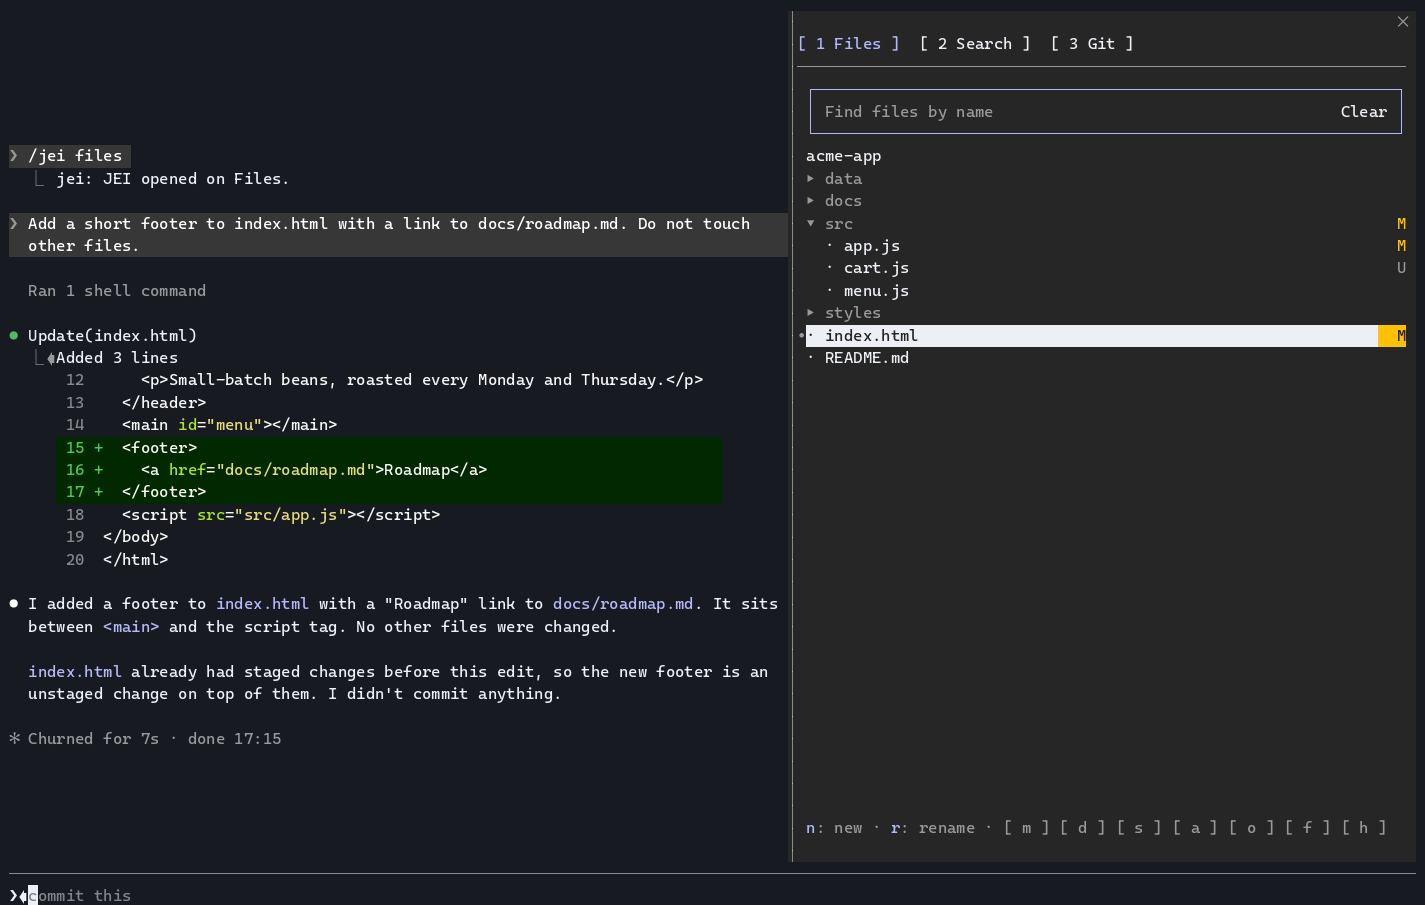
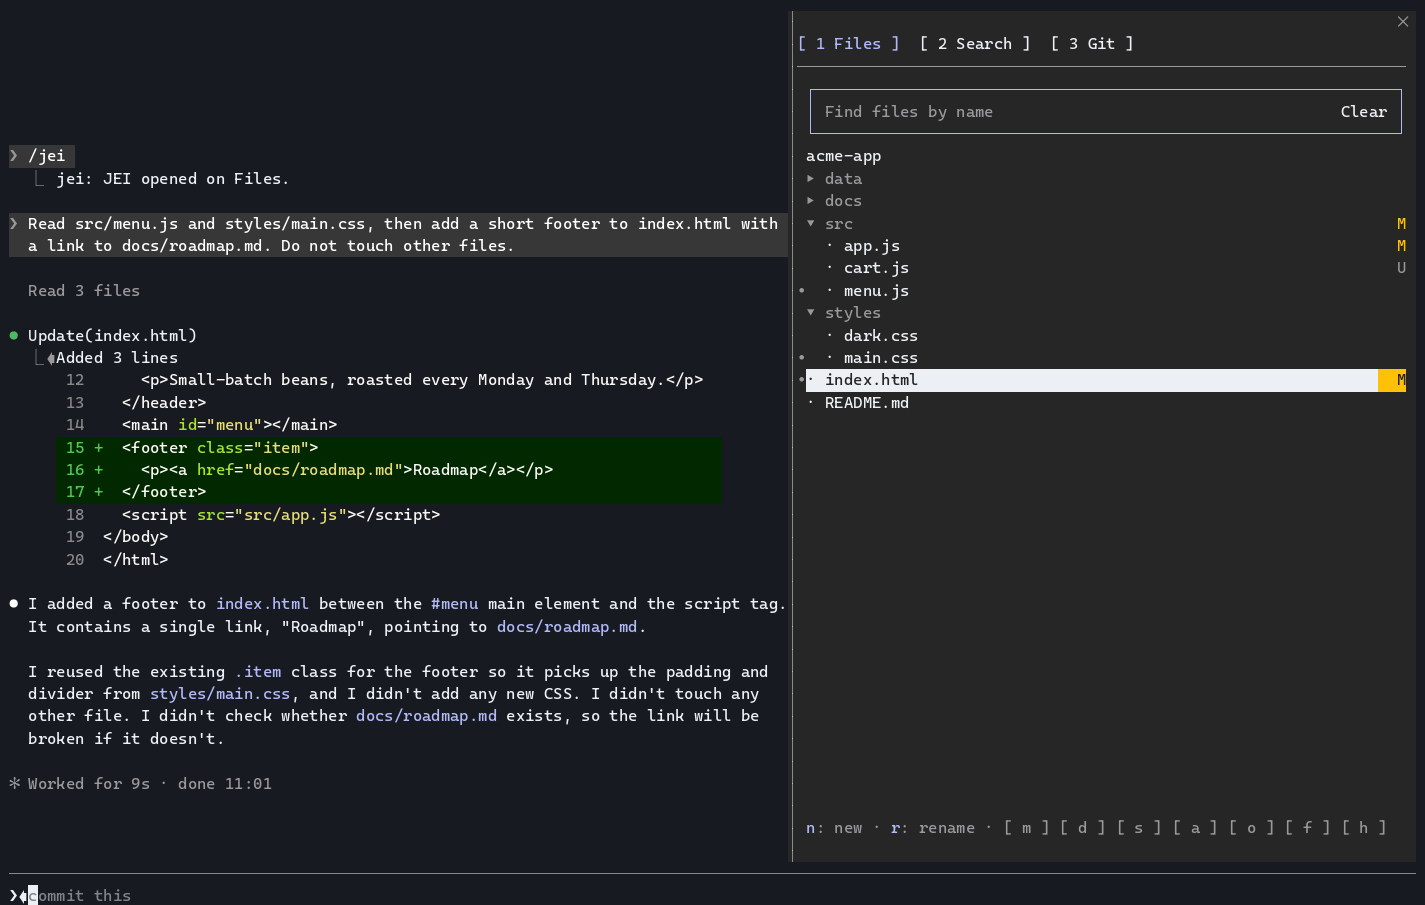
docs: show the agent activity glow in the README

diff --git a/README.md b/README.md
@@ -6,11 +6,15 @@
 
 JEI is a pane with three tabs (**Files**, **Search**, **Git**) that sits next to the agent's conversation. You watch what the agent reads and edits, search the project without spending tokens, review the changes and commit them, without leaving the session. Both hosts get the same features and the same keys from one codebase.
 
-[![JEI following the agent: the file tree marks index.html while Claude edits it](media/jei-agent.gif)](media/jei-agent.gif)
+[![JEI following the agent: the file tree lights up the files Claude reads and edits](media/jei-agent.gif)](media/jei-agent.gif)
 
 ## Features
 
-- **Files:** a lazy file tree with git status and a shimmer on the files the agent reads (purple), writes (orange) or touches through git (green). Follows the agent, finds filenames as you type, previews code, Markdown and CSV/TSV, mentions a file in the prompt, opens it in your editor, and creates, renames, moves and deletes files (delete always asks first).
+- **Agent activity:** while the agent works, the names of the files it reads glow purple, the ones it writes glow orange and the ones it touches through git glow green, with a soft sweep that fades out a couple of seconds after the tool finishes. Their folders take a softer tint, and the tree follows the agent to each file.
+
+  [![File names glowing in the tree while Claude reads two files and edits index.html](media/jei-activity.gif)](media/jei-activity.gif)
+
+- **Files:** a lazy file tree with git status. Finds filenames as you type, previews code, Markdown and CSV/TSV, mentions a file in the prompt, opens it in your editor, and creates, renames, moves and deletes files (delete always asks first).
 
   [![Finding files by name and previewing a CSV table and a script](media/jei-files.gif)](media/jei-files.gif)
 
@@ -87,7 +91,7 @@ The same keys on both hosts. On Claude Code, set them in `/config`. On OpenCode,
 | --- | --- | --- | --- |
 | `startOpen` | on / off | on | Open the pane when a session starts (where it can dock) |
 | `defaultTab` | `files`, `search`, `git` | `files` | Tab shown on open |
-| `activity` | `reads and writes`, `writes`, `reads`, `none` | `reads and writes` | What the shimmer shows |
+| `activity` | `reads and writes`, `writes`, `reads`, `none` | `reads and writes` | Which agent activity glows in the tree |
 | `followAgent` | on / off | on | The tree follows the files the agent touches |
 | `glyphs` | `auto`, `nerd`, `plain` | `auto` | Icon set |
 | `editorCommand` | text | empty | Command that opens a file; `{path}` and `{line}` are replaced. Empty uses the system default |
